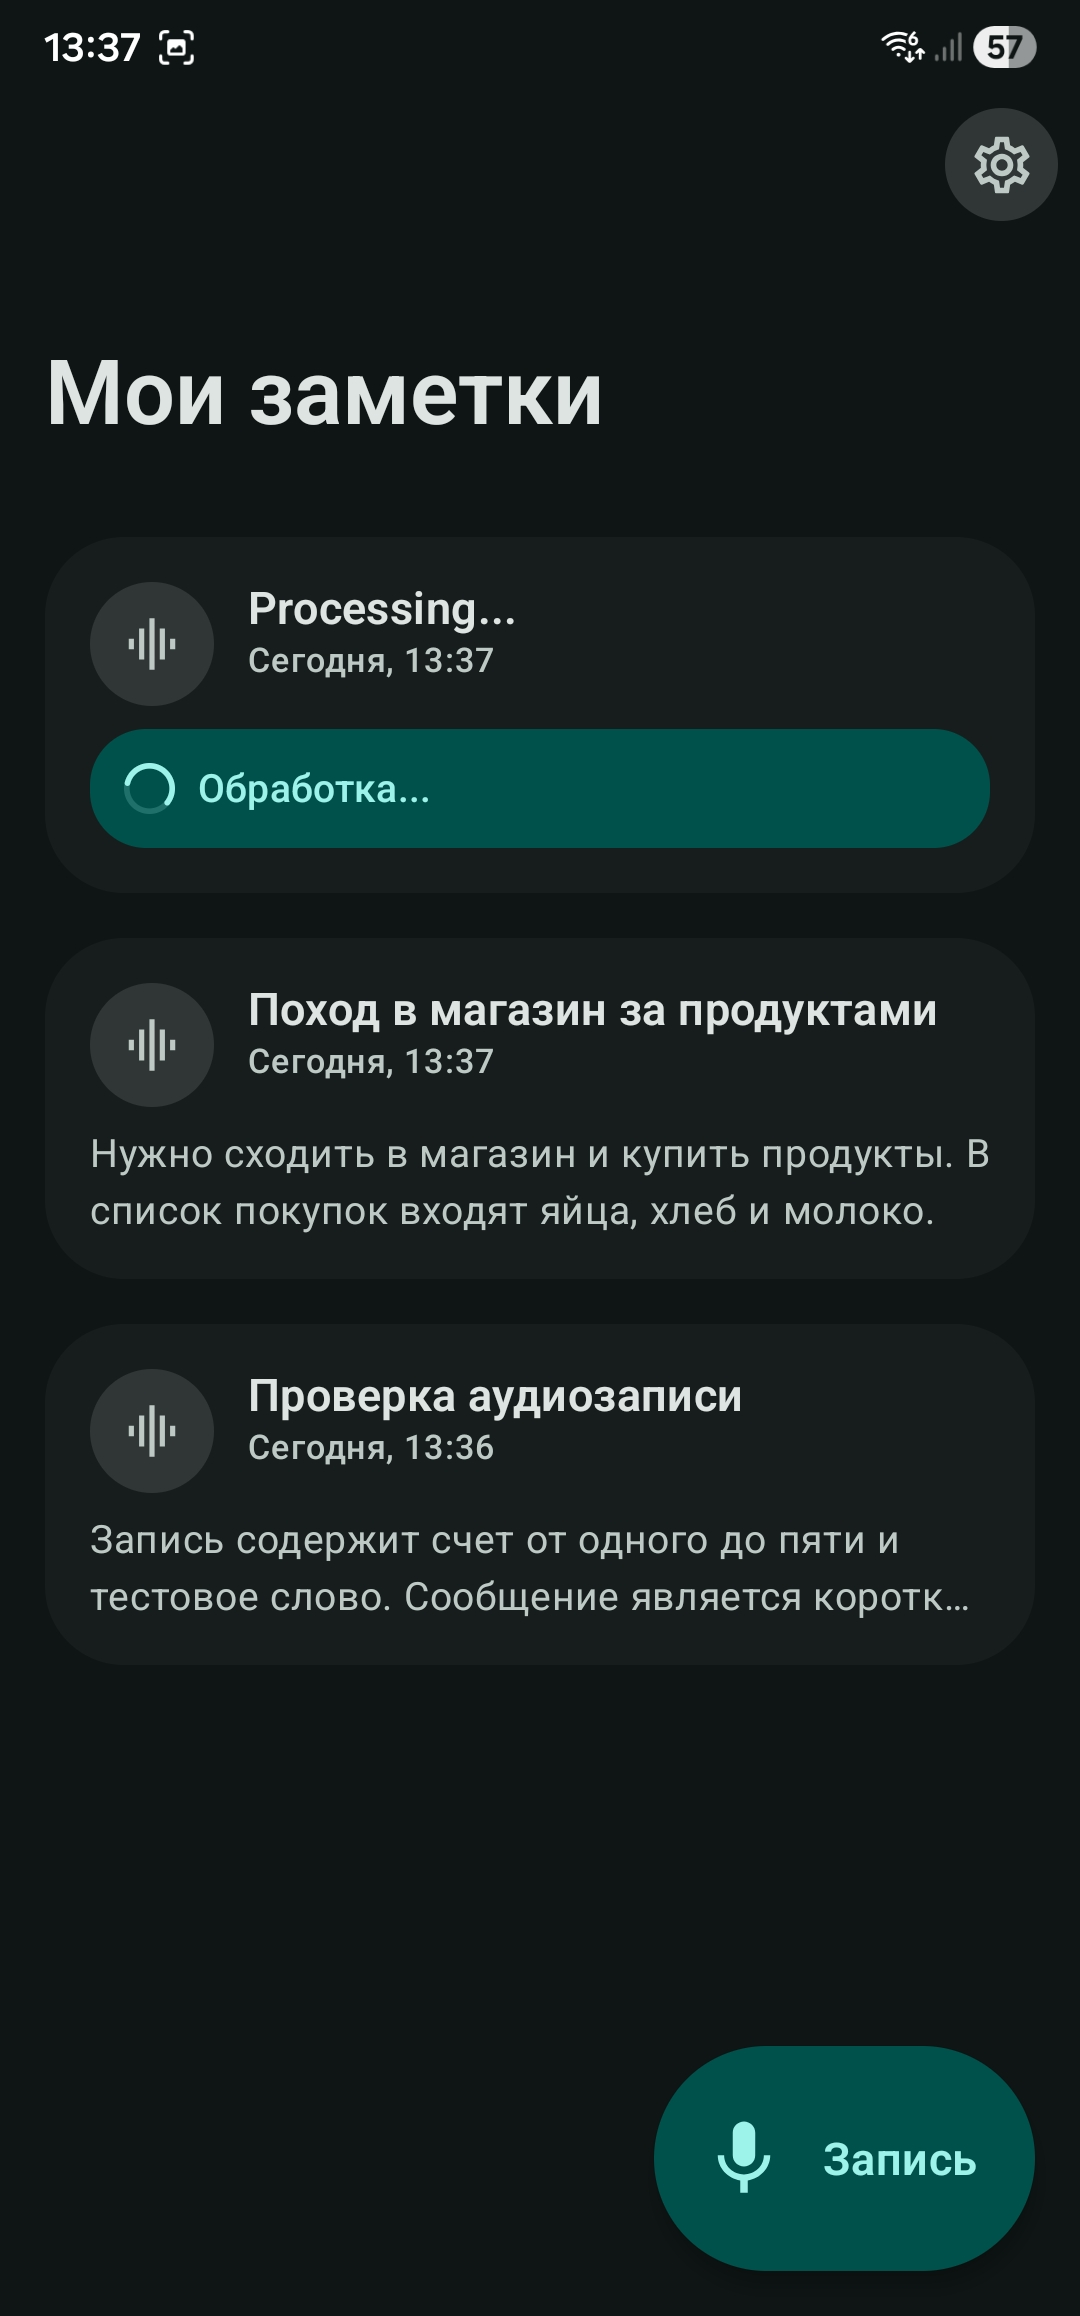
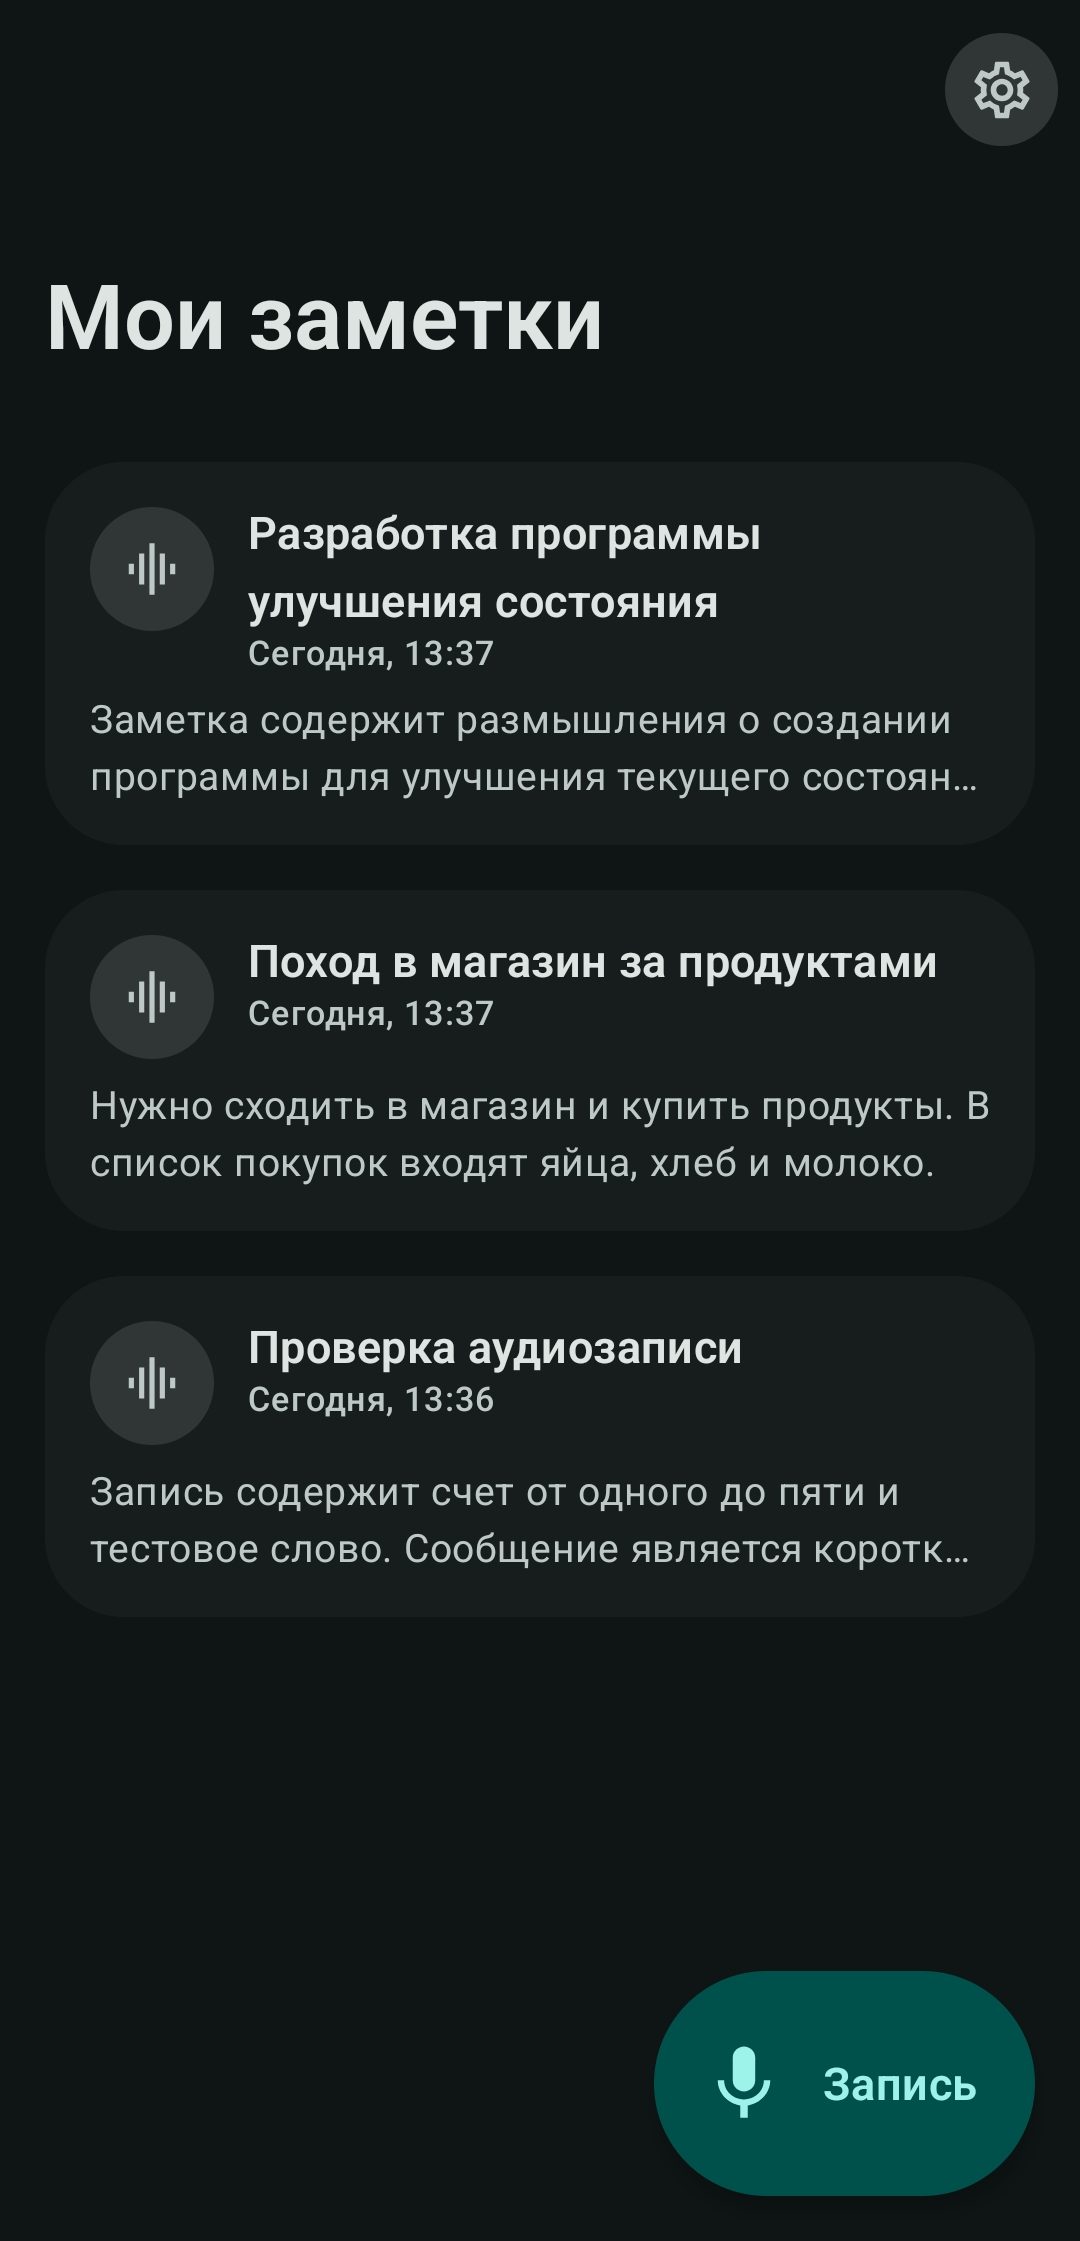
docs: refresh showcase screenshots

diff --git a/README.md b/README.md
@@ -27,12 +27,12 @@ key storage, and offline inference that does not treat arbitrary model files as 
 
 <table>
   <tr>
-    <th>Notes and processing</th>
+    <th>Notes list</th>
     <th>Note details and playback</th>
     <th>Settings</th>
   </tr>
   <tr>
-    <td><img src="screenshots/notes-list.jpg" alt="Notes list with processing state" width="260"></td>
+    <td><img src="screenshots/notes-list.jpg" alt="Notes list" width="260"></td>
     <td><img src="screenshots/note-details.jpg" alt="Transcribed note details" width="260"></td>
     <td><img src="screenshots/settings.jpg" alt="Appearance and language settings" width="260"></td>
   </tr>

diff --git a/screenshots/README.md b/screenshots/README.md
@@ -4,7 +4,7 @@ The repository uses five real-device screenshots:
 
 - `setup-cloud.jpg` — cloud provider selection
 - `setup-offline.jpg` — on-device model selection
-- `notes-list.jpg` — notes list and processing state
+- `notes-list.jpg` — completed notes list
 - `note-details.jpg` — transcription, summary, and audio playback
 - `settings.jpg` — appearance and language settings
 
